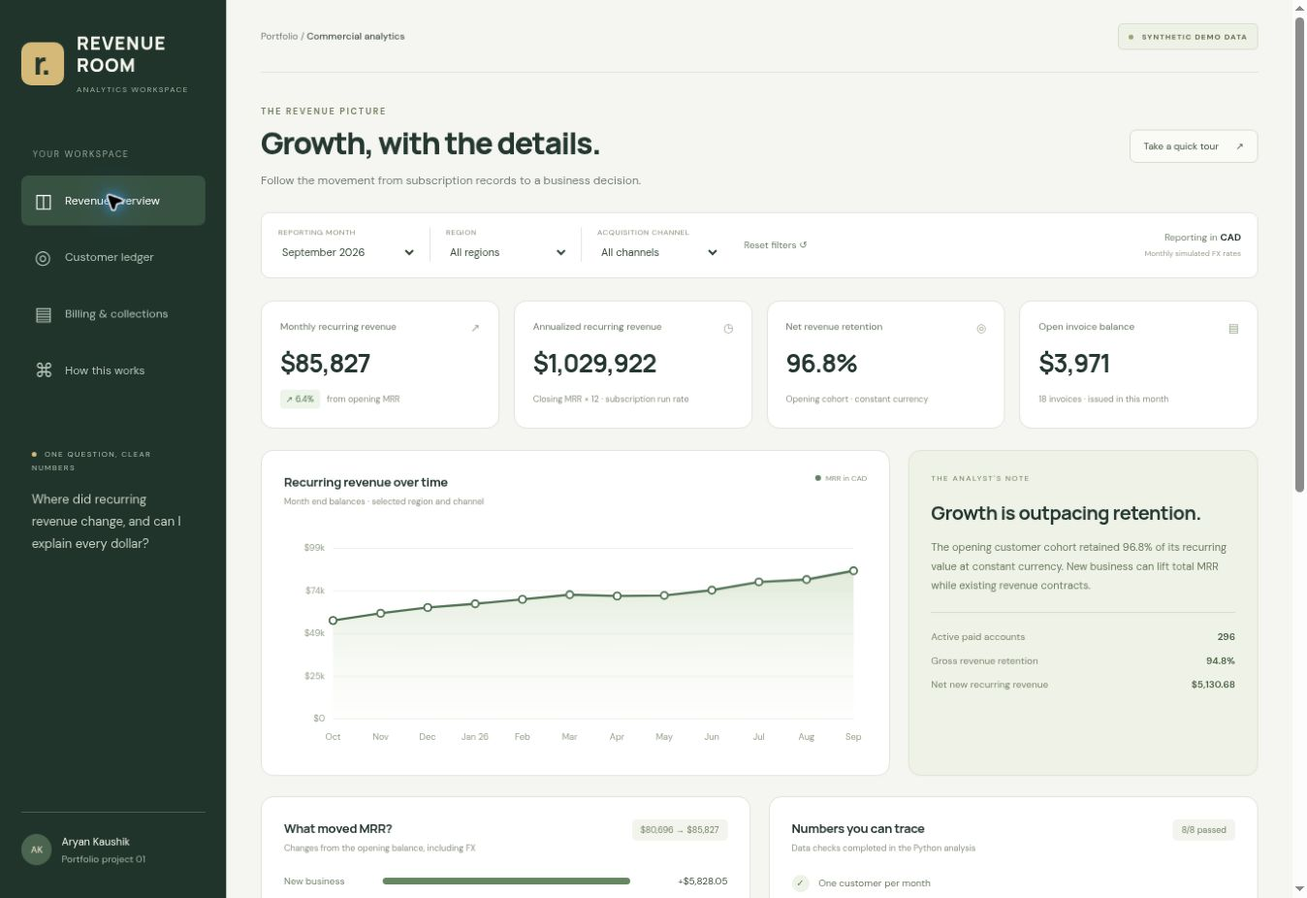
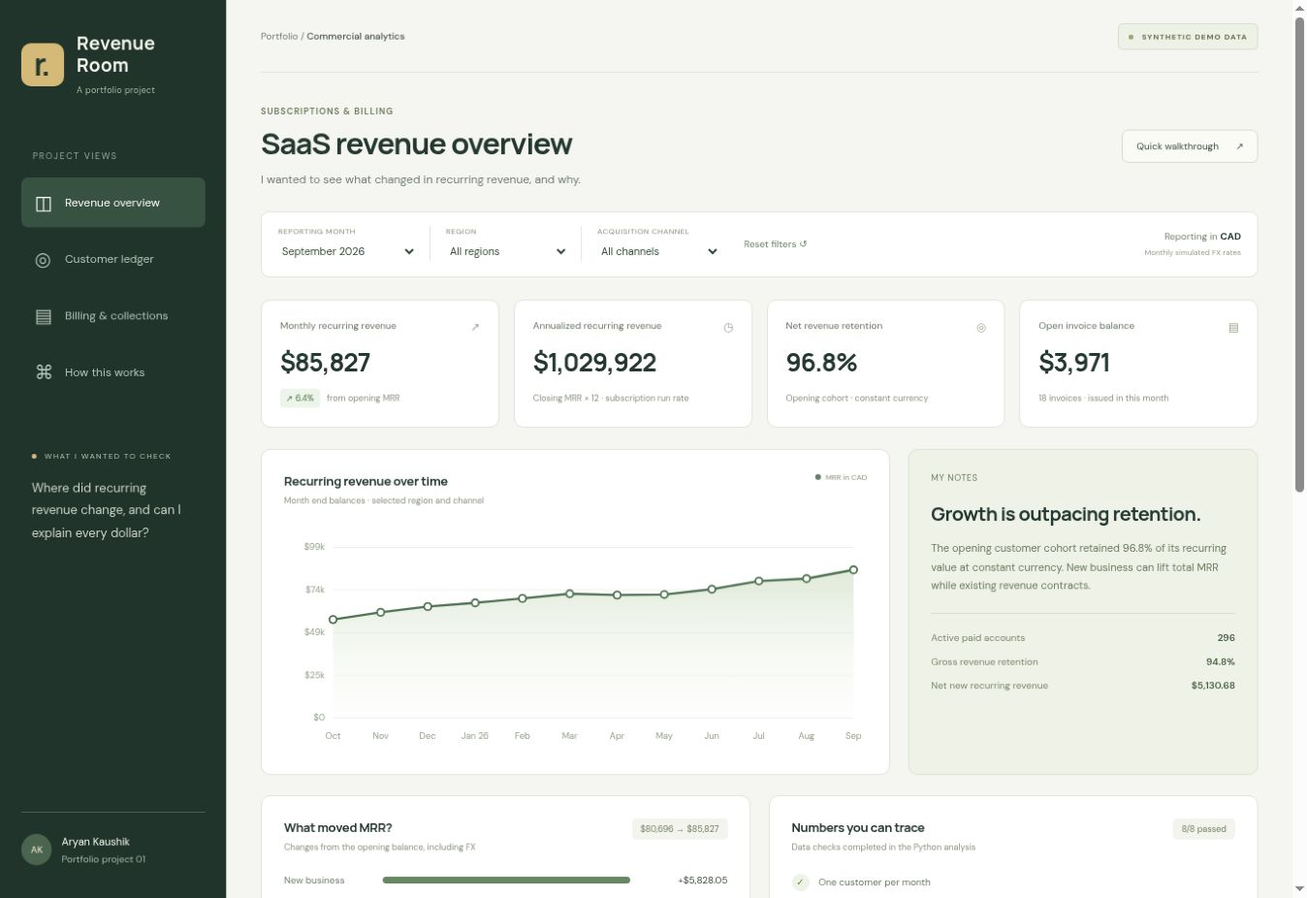
Make the revenue dashboard presentation more understated

diff --git a/projects/01_saas_revenue_control_room/dist/style.css b/projects/01_saas_revenue_control_room/dist/style.css
@@ -1,6 +1,6 @@
 @import url('https://fonts.googleapis.com/css2?family=DM+Sans:wght@400;500;600;700&family=Manrope:wght@400;500;600;700;800&display=swap');
-:root{--ink:#243730;--muted:#758078;--paper:#f5f6f1;--line:#e2e6de;--green:#346d52;--light-green:#edf3e9;--orange:#d48148;--red:#bc6255;--nav:#20342c;--white:#fff;--radius:13px}
-*{box-sizing:border-box}body{margin:0;background:var(--paper);color:var(--ink);font:14px 'DM Sans',Arial,sans-serif}button,select,input{font:inherit}button,a,select{touch-action:manipulation}button{cursor:pointer}button:focus-visible,a:focus-visible,input:focus-visible,select:focus-visible{outline:3px solid #d6a45f;outline-offset:3px}a{color:inherit}.sidebar{position:fixed;inset:0 auto 0 0;width:236px;background:var(--nav);color:#f5f6ec;padding:34px 22px;display:flex;flex-direction:column}.brand{display:flex;gap:13px;align-items:center;text-decoration:none;font-family:Manrope,Arial,sans-serif;font-weight:800;font-size:19px;letter-spacing:1px;line-height:1.22}.brand-mark{height:45px;width:45px;background:#d5b978;color:#25372e;display:grid;place-items:center;font-size:33px;letter-spacing:-3px;border-radius:10px;padding-right:4px}.brand-small{display:block;font:8px 'DM Sans',sans-serif;letter-spacing:1.4px;color:#a9b7a8;margin-top:8px}.nav-label{font-size:9px;letter-spacing:1.6px;color:#9aaa9b;margin:57px 12px 16px}.nav-button{display:flex;align-items:center;gap:12px;width:100%;padding:13px 14px;margin-bottom:7px;background:none;color:#b8c5ba;border:0;border-radius:7px;text-align:left;font-size:12px}.nav-button span{font-size:20px;width:20px;font-weight:400}.nav-button:hover{background:#2d4438}.nav-button.active{background:#385242;color:#fff}.sidebar-note{margin:48px 11px 0;font-size:8px;letter-spacing:1.4px;line-height:1.7;color:#b8c7b7}.sidebar-note p{font-size:13px;letter-spacing:0;line-height:1.8;color:#cbd4c6;margin-top:14px}.note-dot{display:inline-block;width:5px;height:5px;background:#d5b978;border-radius:50%;margin-right:5px}.sidebar-footer{margin-top:auto;display:flex;gap:10px;align-items:center;border-top:1px solid #4a5d4c;padding-top:22px;font-size:11px}.sidebar-footer small{display:block;margin-top:5px;font-size:10px;color:#a9baa8}.avatar{border-radius:50%;background:#4b6450;color:#f8efcf;padding:10px;font-size:10px}main{margin-left:236px;padding:0 36px;max-width:1810px}.topbar{display:flex;justify-content:space-between;align-items:center;min-height:76px;border-bottom:1px solid var(--line);font-size:10px;color:var(--muted)}.topbar b{color:#445147;font-weight:500}.data-tag{font-size:8px;font-weight:700;letter-spacing:1px;padding:8px 10px;border:1px solid #d9dfcf;border-radius:5px;background:#eef1e6;color:#67714f}.data-tag i{display:inline-block;width:5px;height:5px;background:#94a873;border-radius:50%;margin-right:6px}.page-heading{display:flex;justify-content:space-between;align-items:center;padding:34px 0 25px}.eyebrow{font-size:9px;letter-spacing:1.7px;font-weight:700;color:#7b8769;margin:0 0 9px}h1{font:800 32px/1.18 Manrope,Arial,sans-serif;letter-spacing:-1.4px;margin:0 0 11px}.subtitle{color:var(--muted);font-size:12px;margin:0}.secondary{border:1px solid #d6ddcf;background:#fafbf7;padding:10px 14px;border-radius:7px;font-size:10px;color:#41543f}.secondary span{margin-left:15px}.filters{display:flex;align-items:center;gap:13px;background:#fff;border:1px solid var(--line);padding:15px 17px;border-radius:9px;margin-bottom:23px}.filters label{font-size:8px;color:#839077;letter-spacing:.5px;text-transform:uppercase;display:flex;flex-direction:column;gap:6px;min-width:145px}.filters select{border:0;background:#fff;color:#334b38;padding:0 20px 0 0;font-size:11px;height:20px;max-width:210px}.filters label+label{border-left:1px solid var(--line);padding-left:16px}.text-button{border:0;background:none;color:#71816c;font-size:10px;padding:12px}.currency-note{margin-left:auto;font-size:10px;color:#798570;text-align:right}.currency-note strong{color:var(--ink)}.currency-note small{display:block;font-size:8px;margin-top:5px;color:#99a18f}.metrics{display:grid;grid-template-columns:repeat(4,1fr);gap:15px;margin-bottom:22px}.metric{background:#fff;border:1px solid var(--line);border-radius:var(--radius);padding:20px 19px}.metric-label{display:flex;justify-content:space-between;color:#697764;font-size:10px}.metric-icon{font-size:12px;color:#9ca991}.metric-number{font:700 26px/1.2 Manrope,Arial,sans-serif;margin:13px 0 11px;letter-spacing:-1px;white-space:nowrap}.metric small{font-size:9px;color:#8a9383}.delta{display:inline-block;font-size:9px;border-radius:4px;padding:4px 6px;background:#edf4e9;color:#4b7850;margin-right:5px}.delta.down{background:#f8eee7;color:#a5734a}.workspace-grid{display:grid;grid-template-columns:minmax(0,1.8fr) minmax(270px,1fr);gap:19px;margin-bottom:21px}.panel{background:white;border:1px solid var(--line);border-radius:var(--radius);padding:23px}.panel-title{display:flex;justify-content:space-between;align-items:start;margin-bottom:20px}.panel-title h2{margin:0;font:700 13px Manrope,Arial,sans-serif;letter-spacing:-.25px}.panel-title p{font-size:9px;color:#8b9582;margin:6px 0 0;line-height:1.5}.legend{font-size:8px;color:#85927a}.legend:before{content:'';display:inline-block;border-radius:50%;width:6px;height:6px;background:#608163;margin-right:5px}.trend{width:100%;height:235px;display:block}.trend text{font-family:'DM Sans',Arial,sans-serif;font-size:10px;fill:#95a18b}.trend .line{stroke:#507354;stroke-width:2.5;fill:none}.insight-panel{background:#eef2e7;border-color:#dfe5d4}.insight-kicker{font-size:8px;letter-spacing:1.4px;color:#71815d;margin-bottom:18px}.insight-panel h2{font:700 20px/1.4 Manrope,Arial,sans-serif;letter-spacing:-.5px;margin:0 0 12px;max-width:290px}.insight-panel p{font-size:11px;line-height:1.8;color:#6c7b5f}.insight-rule{height:1px;background:#d6dfc8;margin:18px 0}.small-row{display:flex;justify-content:space-between;font-size:10px;margin:12px 0;color:#7e896e}.small-row strong{font-weight:600;color:#4b6344}.bottom-grid{display:grid;grid-template-columns:1fr 1fr;gap:19px;margin-bottom:22px}.move-row{display:grid;grid-template-columns:91px minmax(30px,1fr) 90px;gap:12px;align-items:center;margin:16px 0;font-size:10px;color:#76846c}.move-row .track{height:7px;background:#f1f3ed;border-radius:3px;overflow:hidden}.move-row .fill{height:100%;background:#668761;border-radius:3px}.move-row .fill.negative{background:#c3957a}.move-row .fill.fx{background:#b9bea3}.move-row .amount{text-align:right;color:#40533e;font-variant-numeric:tabular-nums}.reconciliation{display:flex;justify-content:space-between;padding:12px 0 0;margin-top:16px;border-top:1px solid var(--line);font-size:10px}.pass{color:#4c774b}.quality-grid{display:grid;gap:12px}.quality-item{display:flex;gap:10px;align-items:center;font-size:10px;color:#6b7a61}.check-circle{display:grid;place-items:center;height:18px;width:18px;background:#edf3e7;border-radius:50%;color:#6a8a5b;font-size:10px}.quality-note{font-size:10px;color:#8c967e;line-height:1.8;margin-top:21px;padding-top:15px;border-top:1px solid var(--line)}.table-wrap{overflow:auto}.table-toolbar{display:flex;justify-content:space-between;gap:15px;align-items:center;margin-bottom:18px}.table-toolbar h2{font:700 14px Manrope;margin:0 0 7px}.table-toolbar p{font-size:10px;color:var(--muted);margin:0}.table-tools{display:flex;gap:8px}.search{border:1px solid var(--line);border-radius:6px;padding:9px 11px;font-size:10px;width:190px;color:var(--ink)}table{width:100%;border-collapse:collapse;font-size:10px;white-space:nowrap}th{color:#8b9682;font-weight:500;text-align:left;font-size:8px;letter-spacing:.4px;text-transform:uppercase;padding:12px 10px;background:#f7f8f3;border-bottom:1px solid var(--line)}td{padding:13px 10px;border-bottom:1px solid #eff1ea;color:#5d6f56;font-variant-numeric:tabular-nums}td:first-child{color:#2f4933;font-weight:500}th.num,td.num{text-align:right}.status{padding:4px 7px;border-radius:4px;font-size:8px;background:#edf3e9;color:#658059}.status.cancelled{background:#f4eee7;color:#9c8264}.status.past_due{background:#faf0dc;color:#ad8c45}.company-button{font:inherit;font-weight:500;border:0;background:none;padding:0;color:#2e543c;text-decoration:underline;text-decoration-color:#bbcab7;text-underline-offset:4px}.table-bottom{display:flex;justify-content:space-between;align-items:center;padding-top:15px;font-size:9px;color:#919b86}.paging{display:flex;align-items:center;gap:8px}.paging button{border:1px solid var(--line);background:#fff;color:#6c7e61;border-radius:5px;padding:5px 10px}.paging button:disabled{opacity:.4;cursor:default}.page-footer{display:flex;justify-content:space-between;font-size:8px;color:#a0a992;margin:25px 0 21px}.section-intro{margin:4px 0 22px;font-size:12px;color:#738068;line-height:1.8}.definition-grid{display:grid;grid-template-columns:1fr 1fr;gap:18px}.definition-grid h2{font:700 16px Manrope}.definition-grid p,.definition-grid li{font-size:12px;line-height:1.9;color:#708064}.definition-grid code{font-size:11px;background:#f1f4eb;white-space:normal}.empty{padding:36px;text-align:center;color:#8d9980}.pill{padding:5px 9px;background:#f2f4ed;border-radius:5px;font-size:9px;color:#758367}dialog{border:1px solid #d7dfcd;border-radius:17px;box-shadow:0 30px 100px #20342c44;padding:34px;width:min(850px,90vw);max-height:88vh;color:var(--ink);background:#fafbf7}dialog::backdrop{background:#182a2566;backdrop-filter:blur(4px)}.close-button{position:absolute;right:18px;top:14px;border:0;background:none;font-size:24px;color:#7e8c71}dialog h2{font:800 25px Manrope;margin:0 0 10px}dialog h3{font:700 14px Manrope;margin-top:27px}dialog p,dialog li{font-size:12px;line-height:1.9;color:#6f7e65}dialog code{background:#edf2e6;padding:3px 5px;border-radius:4px}dialog .metrics{margin-top:20px;grid-template-columns:repeat(3,1fr)}dialog .metric-number{font-size:22px}.tour-step{display:grid;grid-template-columns:30px 1fr;gap:12px;margin:22px 0}.step-number{background:#e7eddc;border-radius:50%;width:27px;height:27px;display:grid;place-items:center;font-size:11px;color:#607953}.tour-step h3{margin:0 0 5px}.tour-step p{margin:0}.bill-note{background:#f4f6ee;border-left:3px solid #adba91;padding:14px 17px;margin-bottom:20px;color:#748163;font-size:11px;line-height:1.8}
+:root{--ink:#243730;--muted:#758078;--paper:#f5f6f1;--line:#e2e6de;--green:#346d52;--light-green:#edf3e9;--orange:#d48148;--red:#bc6255;--nav:#20342c;--white:#fff;--radius:10px}
+*{box-sizing:border-box}body{margin:0;background:var(--paper);color:var(--ink);font:14px 'DM Sans',Arial,sans-serif}button,select,input{font:inherit}button,a,select{touch-action:manipulation}button{cursor:pointer}button:focus-visible,a:focus-visible,input:focus-visible,select:focus-visible{outline:3px solid #d6a45f;outline-offset:3px}a{color:inherit}.sidebar{position:fixed;inset:0 auto 0 0;width:236px;background:var(--nav);color:#f5f6ec;padding:34px 22px;display:flex;flex-direction:column}.brand{display:flex;gap:13px;align-items:center;text-decoration:none;font-family:Manrope,Arial,sans-serif;font-weight:700;font-size:19px;letter-spacing:.3px;line-height:1.22}.brand-mark{height:45px;width:45px;background:#d5b978;color:#25372e;display:grid;place-items:center;font-size:33px;letter-spacing:-3px;border-radius:10px;padding-right:4px}.brand-small{display:block;font:9px 'DM Sans',sans-serif;letter-spacing:.3px;color:#a9b7a8;margin-top:8px}.nav-label{font-size:9px;letter-spacing:1.6px;color:#9aaa9b;margin:57px 12px 16px}.nav-button{display:flex;align-items:center;gap:12px;width:100%;padding:13px 14px;margin-bottom:7px;background:none;color:#b8c5ba;border:0;border-radius:7px;text-align:left;font-size:12px}.nav-button span{font-size:20px;width:20px;font-weight:400}.nav-button:hover{background:#2d4438}.nav-button.active{background:#385242;color:#fff}.sidebar-note{margin:48px 11px 0;font-size:8px;letter-spacing:1.4px;line-height:1.7;color:#b8c7b7}.sidebar-note p{font-size:13px;letter-spacing:0;line-height:1.8;color:#cbd4c6;margin-top:14px}.note-dot{display:inline-block;width:5px;height:5px;background:#d5b978;border-radius:50%;margin-right:5px}.sidebar-footer{margin-top:auto;display:flex;gap:10px;align-items:center;border-top:1px solid #4a5d4c;padding-top:22px;font-size:11px}.sidebar-footer small{display:block;margin-top:5px;font-size:10px;color:#a9baa8}.avatar{border-radius:50%;background:#4b6450;color:#f8efcf;padding:10px;font-size:10px}main{margin-left:236px;padding:0 36px;max-width:1810px}.topbar{display:flex;justify-content:space-between;align-items:center;min-height:76px;border-bottom:1px solid var(--line);font-size:10px;color:var(--muted)}.topbar b{color:#445147;font-weight:500}.data-tag{font-size:8px;font-weight:700;letter-spacing:1px;padding:8px 10px;border:1px solid #d9dfcf;border-radius:5px;background:#eef1e6;color:#67714f}.data-tag i{display:inline-block;width:5px;height:5px;background:#94a873;border-radius:50%;margin-right:6px}.page-heading{display:flex;justify-content:space-between;align-items:center;padding:34px 0 25px}.eyebrow{font-size:9px;letter-spacing:1px;font-weight:700;color:#7b8769;margin:0 0 9px}h1{font:700 31px/1.18 Manrope,Arial,sans-serif;letter-spacing:-1px;margin:0 0 11px}.subtitle{color:var(--muted);font-size:12px;margin:0}.secondary{border:1px solid #d6ddcf;background:#fafbf7;padding:10px 14px;border-radius:7px;font-size:10px;color:#41543f}.secondary span{margin-left:15px}.filters{display:flex;align-items:center;gap:13px;background:#fff;border:1px solid var(--line);padding:15px 17px;border-radius:9px;margin-bottom:23px}.filters label{font-size:8px;color:#839077;letter-spacing:.5px;text-transform:uppercase;display:flex;flex-direction:column;gap:6px;min-width:145px}.filters select{border:0;background:#fff;color:#334b38;padding:0 20px 0 0;font-size:11px;height:20px;max-width:210px}.filters label+label{border-left:1px solid var(--line);padding-left:16px}.text-button{border:0;background:none;color:#71816c;font-size:10px;padding:12px}.currency-note{margin-left:auto;font-size:10px;color:#798570;text-align:right}.currency-note strong{color:var(--ink)}.currency-note small{display:block;font-size:8px;margin-top:5px;color:#99a18f}.metrics{display:grid;grid-template-columns:repeat(4,1fr);gap:15px;margin-bottom:22px}.metric{background:#fff;border:1px solid var(--line);border-radius:var(--radius);padding:20px 19px}.metric-label{display:flex;justify-content:space-between;color:#697764;font-size:10px}.metric-icon{font-size:12px;color:#9ca991}.metric-number{font:700 26px/1.2 Manrope,Arial,sans-serif;margin:13px 0 11px;letter-spacing:-1px;white-space:nowrap}.metric small{font-size:9px;color:#8a9383}.delta{display:inline-block;font-size:9px;border-radius:4px;padding:4px 6px;background:#edf4e9;color:#4b7850;margin-right:5px}.delta.down{background:#f8eee7;color:#a5734a}.workspace-grid{display:grid;grid-template-columns:minmax(0,1.8fr) minmax(270px,1fr);gap:19px;margin-bottom:21px}.panel{background:white;border:1px solid var(--line);border-radius:var(--radius);padding:23px}.panel-title{display:flex;justify-content:space-between;align-items:start;margin-bottom:20px}.panel-title h2{margin:0;font:700 13px Manrope,Arial,sans-serif;letter-spacing:-.25px}.panel-title p{font-size:9px;color:#8b9582;margin:6px 0 0;line-height:1.5}.legend{font-size:8px;color:#85927a}.legend:before{content:'';display:inline-block;border-radius:50%;width:6px;height:6px;background:#608163;margin-right:5px}.trend{width:100%;height:235px;display:block}.trend text{font-family:'DM Sans',Arial,sans-serif;font-size:10px;fill:#95a18b}.trend .line{stroke:#507354;stroke-width:2.5;fill:none}.insight-panel{background:#eef2e7;border-color:#dfe5d4}.insight-kicker{font-size:9px;letter-spacing:.6px;color:#71815d;margin-bottom:18px}.insight-panel h2{font:700 20px/1.4 Manrope,Arial,sans-serif;letter-spacing:-.5px;margin:0 0 12px;max-width:290px}.insight-panel p{font-size:11px;line-height:1.8;color:#6c7b5f}.insight-rule{height:1px;background:#d6dfc8;margin:18px 0}.small-row{display:flex;justify-content:space-between;font-size:10px;margin:12px 0;color:#7e896e}.small-row strong{font-weight:600;color:#4b6344}.bottom-grid{display:grid;grid-template-columns:1fr 1fr;gap:19px;margin-bottom:22px}.move-row{display:grid;grid-template-columns:91px minmax(30px,1fr) 90px;gap:12px;align-items:center;margin:16px 0;font-size:10px;color:#76846c}.move-row .track{height:7px;background:#f1f3ed;border-radius:3px;overflow:hidden}.move-row .fill{height:100%;background:#668761;border-radius:3px}.move-row .fill.negative{background:#c3957a}.move-row .fill.fx{background:#b9bea3}.move-row .amount{text-align:right;color:#40533e;font-variant-numeric:tabular-nums}.reconciliation{display:flex;justify-content:space-between;padding:12px 0 0;margin-top:16px;border-top:1px solid var(--line);font-size:10px}.pass{color:#4c774b}.quality-grid{display:grid;gap:12px}.quality-item{display:flex;gap:10px;align-items:center;font-size:10px;color:#6b7a61}.check-circle{display:grid;place-items:center;height:18px;width:18px;background:#edf3e7;border-radius:50%;color:#6a8a5b;font-size:10px}.quality-note{font-size:10px;color:#8c967e;line-height:1.8;margin-top:21px;padding-top:15px;border-top:1px solid var(--line)}.table-wrap{overflow:auto}.table-toolbar{display:flex;justify-content:space-between;gap:15px;align-items:center;margin-bottom:18px}.table-toolbar h2{font:700 14px Manrope;margin:0 0 7px}.table-toolbar p{font-size:10px;color:var(--muted);margin:0}.table-tools{display:flex;gap:8px}.search{border:1px solid var(--line);border-radius:6px;padding:9px 11px;font-size:10px;width:190px;color:var(--ink)}table{width:100%;border-collapse:collapse;font-size:10px;white-space:nowrap}th{color:#8b9682;font-weight:500;text-align:left;font-size:8px;letter-spacing:.4px;text-transform:uppercase;padding:12px 10px;background:#f7f8f3;border-bottom:1px solid var(--line)}td{padding:13px 10px;border-bottom:1px solid #eff1ea;color:#5d6f56;font-variant-numeric:tabular-nums}td:first-child{color:#2f4933;font-weight:500}th.num,td.num{text-align:right}.status{padding:4px 7px;border-radius:4px;font-size:8px;background:#edf3e9;color:#658059}.status.cancelled{background:#f4eee7;color:#9c8264}.status.past_due{background:#faf0dc;color:#ad8c45}.company-button{font:inherit;font-weight:500;border:0;background:none;padding:0;color:#2e543c;text-decoration:underline;text-decoration-color:#bbcab7;text-underline-offset:4px}.table-bottom{display:flex;justify-content:space-between;align-items:center;padding-top:15px;font-size:9px;color:#919b86}.paging{display:flex;align-items:center;gap:8px}.paging button{border:1px solid var(--line);background:#fff;color:#6c7e61;border-radius:5px;padding:5px 10px}.paging button:disabled{opacity:.4;cursor:default}.page-footer{display:flex;justify-content:space-between;font-size:8px;color:#a0a992;margin:25px 0 21px}.section-intro{margin:4px 0 22px;font-size:12px;color:#738068;line-height:1.8}.definition-grid{display:grid;grid-template-columns:1fr 1fr;gap:18px}.definition-grid h2{font:700 16px Manrope}.definition-grid p,.definition-grid li{font-size:12px;line-height:1.9;color:#708064}.definition-grid code{font-size:11px;background:#f1f4eb;white-space:normal}.empty{padding:36px;text-align:center;color:#8d9980}.pill{padding:5px 9px;background:#f2f4ed;border-radius:5px;font-size:9px;color:#758367}dialog{border:1px solid #d7dfcd;border-radius:17px;box-shadow:0 30px 100px #20342c44;padding:34px;width:min(850px,90vw);max-height:88vh;color:var(--ink);background:#fafbf7}dialog::backdrop{background:#182a2566;backdrop-filter:blur(4px)}.close-button{position:absolute;right:18px;top:14px;border:0;background:none;font-size:24px;color:#7e8c71}dialog h2{font:800 25px Manrope;margin:0 0 10px}dialog h3{font:700 14px Manrope;margin-top:27px}dialog p,dialog li{font-size:12px;line-height:1.9;color:#6f7e65}dialog code{background:#edf2e6;padding:3px 5px;border-radius:4px}dialog .metrics{margin-top:20px;grid-template-columns:repeat(3,1fr)}dialog .metric-number{font-size:22px}.tour-step{display:grid;grid-template-columns:30px 1fr;gap:12px;margin:22px 0}.step-number{background:#e7eddc;border-radius:50%;width:27px;height:27px;display:grid;place-items:center;font-size:11px;color:#607953}.tour-step h3{margin:0 0 5px}.tour-step p{margin:0}.bill-note{background:#f4f6ee;border-left:3px solid #adba91;padding:14px 17px;margin-bottom:20px;color:#748163;font-size:11px;line-height:1.8}
 @media(min-width:1600px){main{padding:0 50px}.metric-number{font-size:32px}.trend{height:270px}}
 @media(max-width:1150px){.sidebar{width:205px;padding:30px 15px}main{margin-left:205px;padding:0 23px}.brand{font-size:16px}.brand-mark{height:40px;width:40px}.nav-button{font-size:10px}.filters label{min-width:120px}.filters{gap:7px}.filters label+label{padding-left:10px}.currency-note{display:none}.metric{padding:17px 13px}.metric-number{font-size:23px}.workspace-grid{grid-template-columns:1.65fr 1fr}.move-row{grid-template-columns:83px 1fr 78px;gap:7px}.page-heading h1{font-size:29px}}
 @media(max-width:850px){.sidebar{position:relative;width:100%;padding:16px 20px;display:block}.brand{font-size:13px}.brand br{display:none}.brand-small{display:none}.brand-mark{height:30px;width:30px;font-size:24px}.nav-label,.sidebar-note,.sidebar-footer{display:none}.sidebar nav{display:flex;gap:4px;overflow:auto;margin-top:15px}.nav-button{width:auto;white-space:nowrap;margin:0;padding:9px;font-size:10px}.nav-button span{display:none}main{margin-left:0;padding:0 20px}.topbar{min-height:55px}.page-heading{padding:26px 0}.metrics{grid-template-columns:repeat(2,1fr)}.workspace-grid,.bottom-grid{grid-template-columns:1fr}.insight-panel{display:grid;grid-template-columns:1fr 1fr;gap:0 20px}.insight-panel h2{max-width:100%}.insight-panel .insight-kicker{grid-column:1/-1}.insight-panel p{margin-top:0}.insight-panel .insight-rule{display:none}.filters{flex-wrap:wrap}.filters label{min-width:140px;flex:1}.text-button{font-size:10px}.definition-grid{grid-template-columns:1fr}.page-footer{gap:20px;line-height:1.8}}

diff --git a/projects/01_saas_revenue_control_room/dist/app.js b/projects/01_saas_revenue_control_room/dist/app.js
@@ -47,7 +47,7 @@ function overview() {
   const signal = totals.nrr === null ? 'Start with the first paid customer cohort.' : change < 0 ? 'Revenue is declining in this view.' : totals.nrr < 1 ? 'Growth is outpacing retention.' : 'Existing customers are adding value.';
   const explanation = totals.nrr === null ? 'This selection has no opening MRR. Retention needs an opening paid customer cohort.' : totals.nrr < 1 ? `The opening customer cohort retained ${percent(totals.nrr)} of its recurring value at constant currency. New business can lift total MRR while existing revenue contracts.` : `The opening customer cohort now represents ${percent(totals.nrr)} of its previous recurring value at constant currency. Check expansion alongside churn before changing the plan.`;
   document.querySelector('#view').innerHTML = `<section class="metrics">${metric('Monthly recurring revenue',money(totals.closing_mrr),`<span class="delta ${change<0?'down':''}">${delta}</span> from opening MRR`)}${metric('Annualized recurring revenue',money(totals.arr),'Closing MRR × 12 · subscription run rate','◷')}${metric('Net revenue retention',percent(totals.nrr),'Opening cohort · constant currency','◎')}${metric('Open invoice balance',money(billing.outstanding),`${billing.unpaid} invoices · issued in this month`,'▤')}</section>
-  <section class="workspace-grid"><article class="panel"><div class="panel-title"><div><h2>Recurring revenue over time</h2><p>Month end balances · selected region and channel</p></div><span class="legend">MRR in CAD</span></div>${lineChart(math.filterRows(data.rows,state,false))}</article><article class="panel insight-panel"><div class="insight-kicker">THE ANALYST'S NOTE</div><h2>${signal}</h2><p>${explanation}</p><div class="insight-rule"></div><div><div class="small-row"><span>Active paid accounts</span><strong>${totals.active}</strong></div><div class="small-row"><span>Gross revenue retention</span><strong>${percent(totals.grr)}</strong></div><div class="small-row"><span>Net new recurring revenue</span><strong>${preciseMoney(totals.closing_mrr-totals.opening_mrr)}</strong></div></div></article></section>
+  <section class="workspace-grid"><article class="panel"><div class="panel-title"><div><h2>Recurring revenue over time</h2><p>Month end balances · selected region and channel</p></div><span class="legend">MRR in CAD</span></div>${lineChart(math.filterRows(data.rows,state,false))}</article><article class="panel insight-panel"><div class="insight-kicker">MY NOTES</div><h2>${signal}</h2><p>${explanation}</p><div class="insight-rule"></div><div><div class="small-row"><span>Active paid accounts</span><strong>${totals.active}</strong></div><div class="small-row"><span>Gross revenue retention</span><strong>${percent(totals.grr)}</strong></div><div class="small-row"><span>Net new recurring revenue</span><strong>${preciseMoney(totals.closing_mrr-totals.opening_mrr)}</strong></div></div></article></section>
   <section class="bottom-grid">${movementPanel(totals)}<article class="panel"><div class="panel-title"><div><h2>Numbers you can trace</h2><p>Data checks completed in the Python analysis</p></div><span class="pill">${data.checks.filter(row=>row.passed).length}/${data.checks.length} passed</span></div><div class="quality-grid">${data.checks.slice(0,5).map(check=>`<div class="quality-item"><span class="check-circle">${check.passed?'✓':'!'}</span>${check.check}</div>`).join('')}</div><p class="quality-note">Three repeated event deliveries and two repeated invoice rows were detected and removed. Select a customer below to inspect its subscription and invoice records.</p></article></section>${customerTable(rows, true)}`;
 }
 

diff --git a/projects/01_saas_revenue_control_room/dist/index.html b/projects/01_saas_revenue_control_room/dist/index.html
@@ -9,21 +9,21 @@
 </head>
 <body>
   <aside class="sidebar">
-    <a class="brand" href="#overview" aria-label="Revenue Room home"><span class="brand-mark">r.</span><span>REVENUE<br>ROOM<span class="brand-small">ANALYTICS WORKSPACE</span></span></a>
-    <p class="nav-label">YOUR WORKSPACE</p>
+    <a class="brand" href="#overview" aria-label="Revenue Room home"><span class="brand-mark">r.</span><span>Revenue<br>Room<span class="brand-small">A portfolio project</span></span></a>
+    <p class="nav-label">PROJECT VIEWS</p>
     <nav aria-label="Project views">
       <button class="nav-button active" data-tab="overview"><span>◫</span> Revenue overview</button>
       <button class="nav-button" data-tab="customers"><span>◎</span> Customer ledger</button>
       <button class="nav-button" data-tab="billing"><span>▤</span> Billing & collections</button>
       <button class="nav-button" data-tab="definitions"><span>⌘</span> How this works</button>
     </nav>
-    <div class="sidebar-note"><span class="note-dot"></span> ONE QUESTION, CLEAR NUMBERS<p>Where did recurring revenue change, and can I explain every dollar?</p></div>
+    <div class="sidebar-note"><span class="note-dot"></span> WHAT I WANTED TO CHECK<p>Where did recurring revenue change, and can I explain every dollar?</p></div>
     <div class="sidebar-footer"><span class="avatar">AK</span><div>Aryan Kaushik<small>Portfolio project 01</small></div></div>
   </aside>
 
   <main>
     <header class="topbar"><span>Portfolio / <b>Commercial analytics</b></span><span class="data-tag"><i></i> SYNTHETIC DEMO DATA</span></header>
-    <section class="page-heading"><div><p class="eyebrow">THE REVENUE PICTURE</p><h1>Growth, with the details.</h1><p class="subtitle">Follow the movement from subscription records to a business decision.</p></div><button class="secondary" id="walkthrough-button">Take a quick tour <span>↗</span></button></section>
+    <section class="page-heading"><div><p class="eyebrow">SUBSCRIPTIONS & BILLING</p><h1>SaaS revenue overview</h1><p class="subtitle">I wanted to see what changed in recurring revenue, and why.</p></div><button class="secondary" id="walkthrough-button">Quick walkthrough <span>↗</span></button></section>
 
     <section class="filters" aria-label="Report filters">
       <label>Reporting month<select id="month-filter"></select></label>

diff --git a/projects/01_saas_revenue_control_room/AGENTS.md b/projects/01_saas_revenue_control_room/AGENTS.md
@@ -2,6 +2,8 @@
 
 This is Aryan Kaushik's personal analytics project. Keep Python and SQL readable, with short steps and plain English comments. Use one import statement per line. Use functions when a step repeats, and avoid unnecessary classes. The learning notebook uses numbered headings, short explanations before code and observations after outputs. Show data checks as readable tables there; keep automated assertions in the separate tests.
 
+Keep the presentation understated and personal. Use plain descriptive headings and natural first-person notes where useful. Avoid product marketing slogans or elaborate branding. Aryan prefers about five percent less polish than the initial dashboard, while keeping readable layouts, working controls and correct analysis.
+
 The data is entirely synthetic. Never describe the figures as customer results from a real company. MRR is a subscription run rate, not recognized revenue or cash. Keep the stated billing rules and currency treatment consistent in Python, SQL and the interface.
 
 Run `python analysis.py`, `python -m unittest discover -s tests -v` and `python tools/make_notebook.py` after analytical changes. Run `node tests/check_dashboard.mjs` after calculation changes in the interface. Keep the notebook, findings and dashboard data in agreement. Preserve .openai/hosting.json and use the Sites workflow for deployment.

diff --git a/AGENTS.md b/AGENTS.md
@@ -7,3 +7,5 @@ Each project needs its own business question, data source and licence notes, a r
 Label synthetic data and simulated business effects clearly. Do not publish confidential employer or assessment data, credentials, personal career notes or application materials. Distinguish actual integrations from proposed configurations and offline demonstrations from live model runs.
 
 Preserve existing projects. Add new work under its numbered projects folder and update the root index after a successful release. Respect source data licences separately from the code licence. Read a project's own AGENTS.md before editing it.
+
+Keep dashboard presentation understated and personal. Prefer descriptive headings, natural first-person project notes and modest branding over product marketing slogans. Preserve readable layouts, accessible controls and accurate analysis. Plan for later website integration: use static browser interfaces when appropriate, and document hosting needs for apps that require a server.

diff --git a/projects/01_saas_revenue_control_room/docs/implementation_journal.md b/projects/01_saas_revenue_control_room/docs/implementation_journal.md
@@ -21,3 +21,7 @@ Two issues found during verification were corrected. The notebook generator need
 The app has no authentication, database connection, API key entry or external AI call. It displays synthetic exported data and performs filtering and aggregation in the browser. Hosted preview access is controlled by the hosting service.
 
 The personal portfolio website has not been edited. Daily GitHub publication is handled by the separate release workflow after the checked source is saved.
+
+## Presentation refinement
+
+Simplified the dashboard heading, navigation labels and analyst note to sound more like my own project notes. Reduced a few font weights, letter spacing and card corners. This is a small visual adjustment; the data and calculations use the same checked outputs. The presentation preference also applies to future portfolio projects. Desktop visual review passed and the JavaScript syntax check passed. Updated the README screenshot to match.

diff --git a/projects/01_saas_revenue_control_room/README.md b/projects/01_saas_revenue_control_room/README.md
@@ -45,6 +45,10 @@ python -m http.server 8000 --directory dist
 
 Node is only needed for the JavaScript calculation checks, not for opening the app. The optional Google Fonts request changes typography; the interface falls back to system fonts when offline.
 
+## Using the dashboard on a website
+
+The dashboard is static HTML, CSS and JavaScript. Its filters and exports run in the browser, so the contents of `dist/` can be hosted directly on GitHub Pages. Python is used to prepare the data, rather than run a server for visitors. The HTML notebook view can be linked beside the interactive dashboard and source code. Website integration is a later step.
+
 ## How the files fit together
 
 | File or folder | Purpose |
